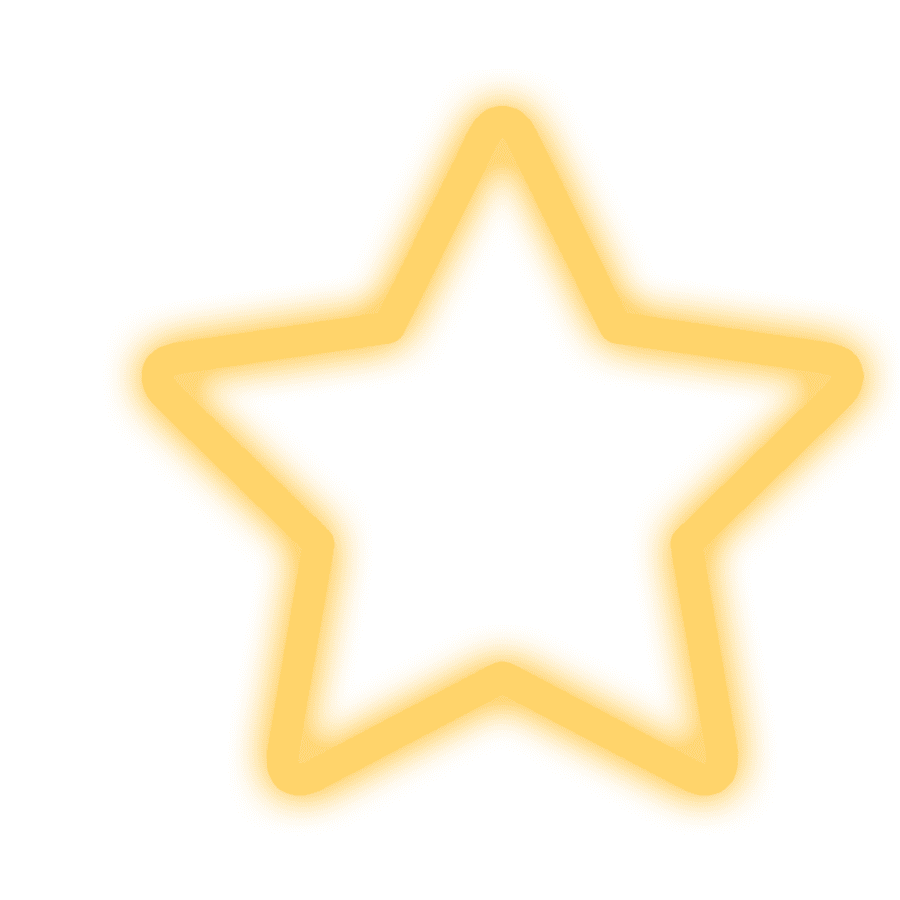
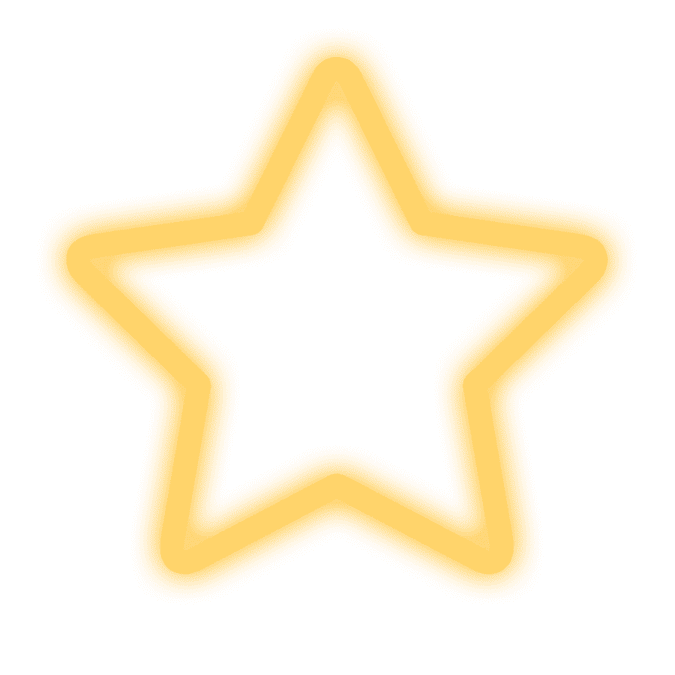
🏗 [Update] enhance README layout by adding spacing between marketplace badges and update GitHub star image

Changed region(s): [[0.0622, 0.0622, 0.9956, 0.9333]]

diff --git a/README.md b/README.md
@@ -1,9 +1,9 @@
 ![Use Extension](https://raw.githubusercontent.com/bastndev/Lynx-Keymap-75/refs/heads/main/assets/images/banner.png)
 
 <p align="center">
-    <a href="https://marketplace.visualstudio.com/items?itemName=bastndev.lynx-keymap-75"><img src="https://vsmarketplacebadges.dev/version-short/bastndev.lynx-keymap-75.jpg?style=for-the-badge&colorA=CCCCCC&colorB=EEEEEE&color=000000&label=VERSION" alt="Version"></a>
-    <a href="https://marketplace.visualstudio.com/items?itemName=bastndev.lynx-keymap-75"><img src="https://vsmarketplacebadges.dev/rating-short/bastndev.lynx-keymap-75.jpg?style=for-the-badge&colorA=CCCCCC&colorB=EEEEEE&color=000000&label=Rating" alt="Rating"></a>
-    <a href="https://marketplace.visualstudio.com/items?itemName=bastndev.lynx-keymap-75"><img src="https://vsmarketplacebadges.dev/installs-short/bastndev.lynx-keymap-75.jpg?style=for-the-badge&colorA=CCCCCC&colorB=EEEEEE&color=000000&label=Installs" alt="Installs"></a>
+    <a href="https://marketplace.visualstudio.com/items?itemName=bastndev.lynx-keymap-75"><img src="https://vsmarketplacebadges.dev/version-short/bastndev.lynx-keymap-75.jpg?style=for-the-badge&colorA=CCCCCC&colorB=EEEEEE&color=000000&label=VERSION" alt="Version"></a>&nbsp;
+    <a href="https://marketplace.visualstudio.com/items?itemName=bastndev.lynx-keymap-75"><img src="https://vsmarketplacebadges.dev/rating-short/bastndev.lynx-keymap-75.jpg?style=for-the-badge&colorA=CCCCCC&colorB=EEEEEE&color=000000&label=Rating" alt="Rating"></a>&nbsp;
+    <a href="https://marketplace.visualstudio.com/items?itemName=bastndev.lynx-keymap-75"><img src="https://vsmarketplacebadges.dev/installs-short/bastndev.lynx-keymap-75.jpg?style=for-the-badge&colorA=CCCCCC&colorB=EEEEEE&color=000000&label=Installs" alt="Installs"></a>&nbsp;
     <a href="https://github.com/bastndev/Lynx-Keymap-75"><img src="https://raw.githubusercontent.com/bastndev/Lynx-Keymap-75/main/assets/images/star.png" width="26px" alt="Github Star"></a>
 </p>
 
